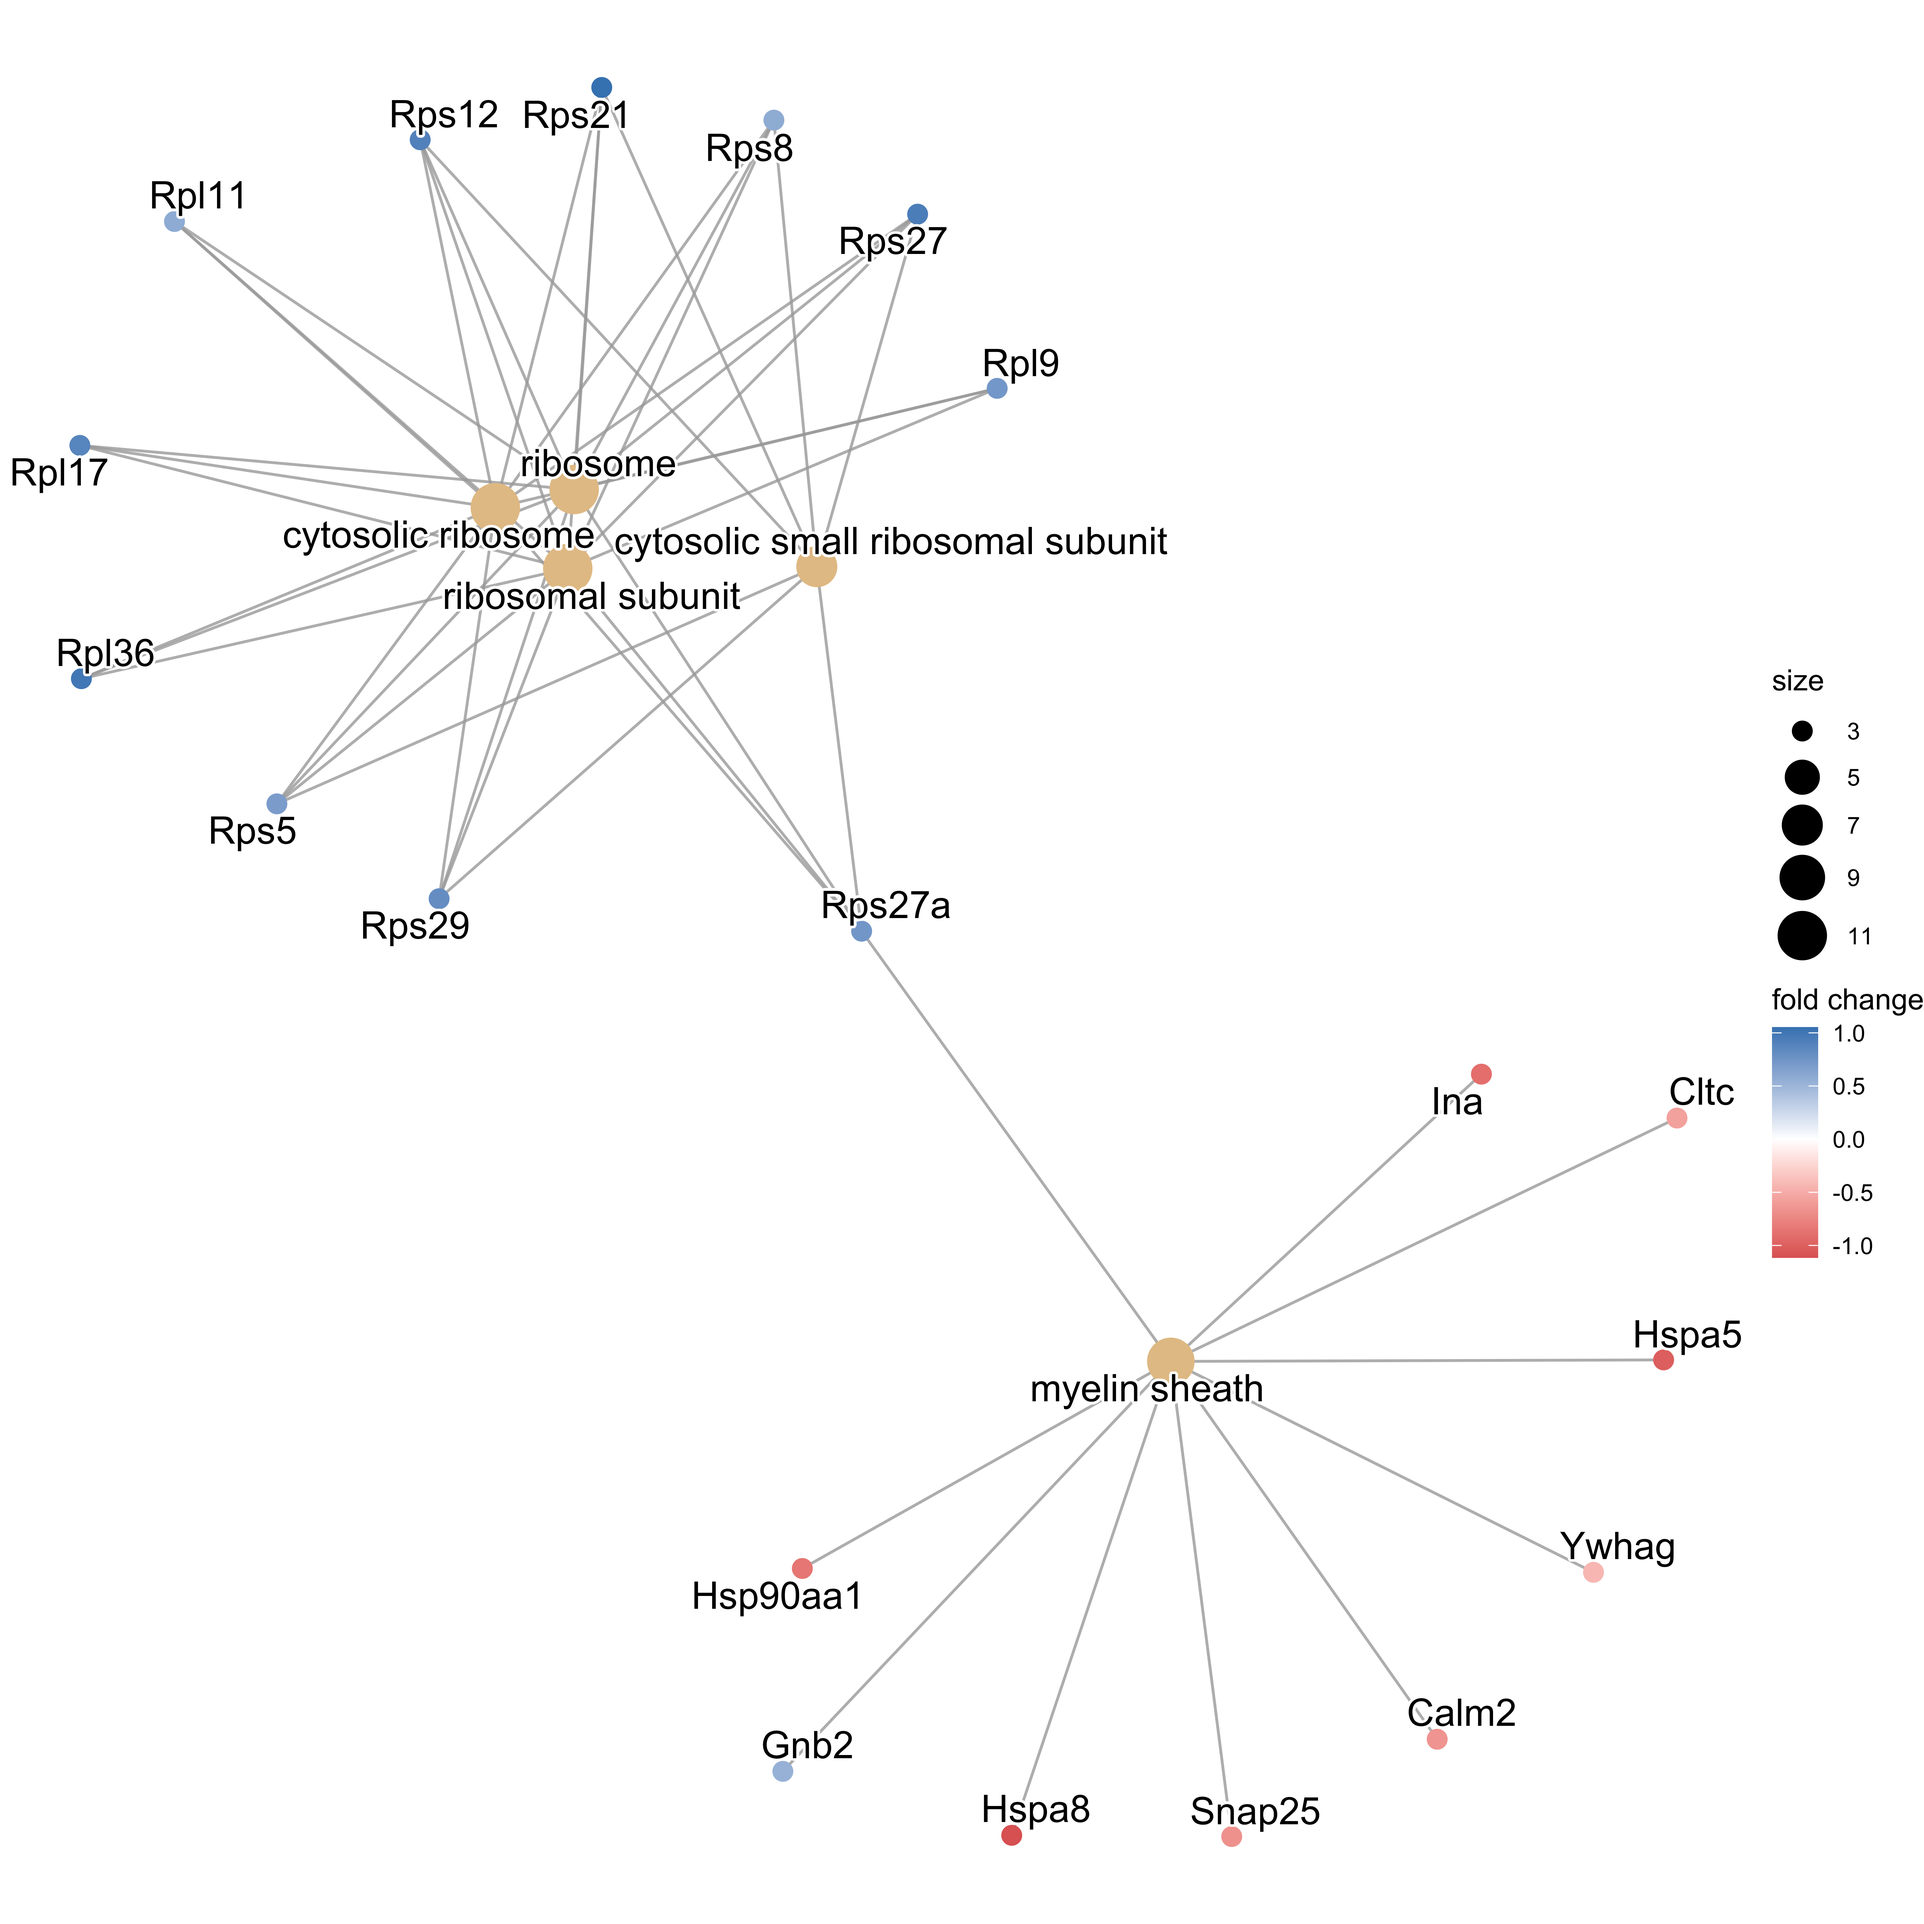
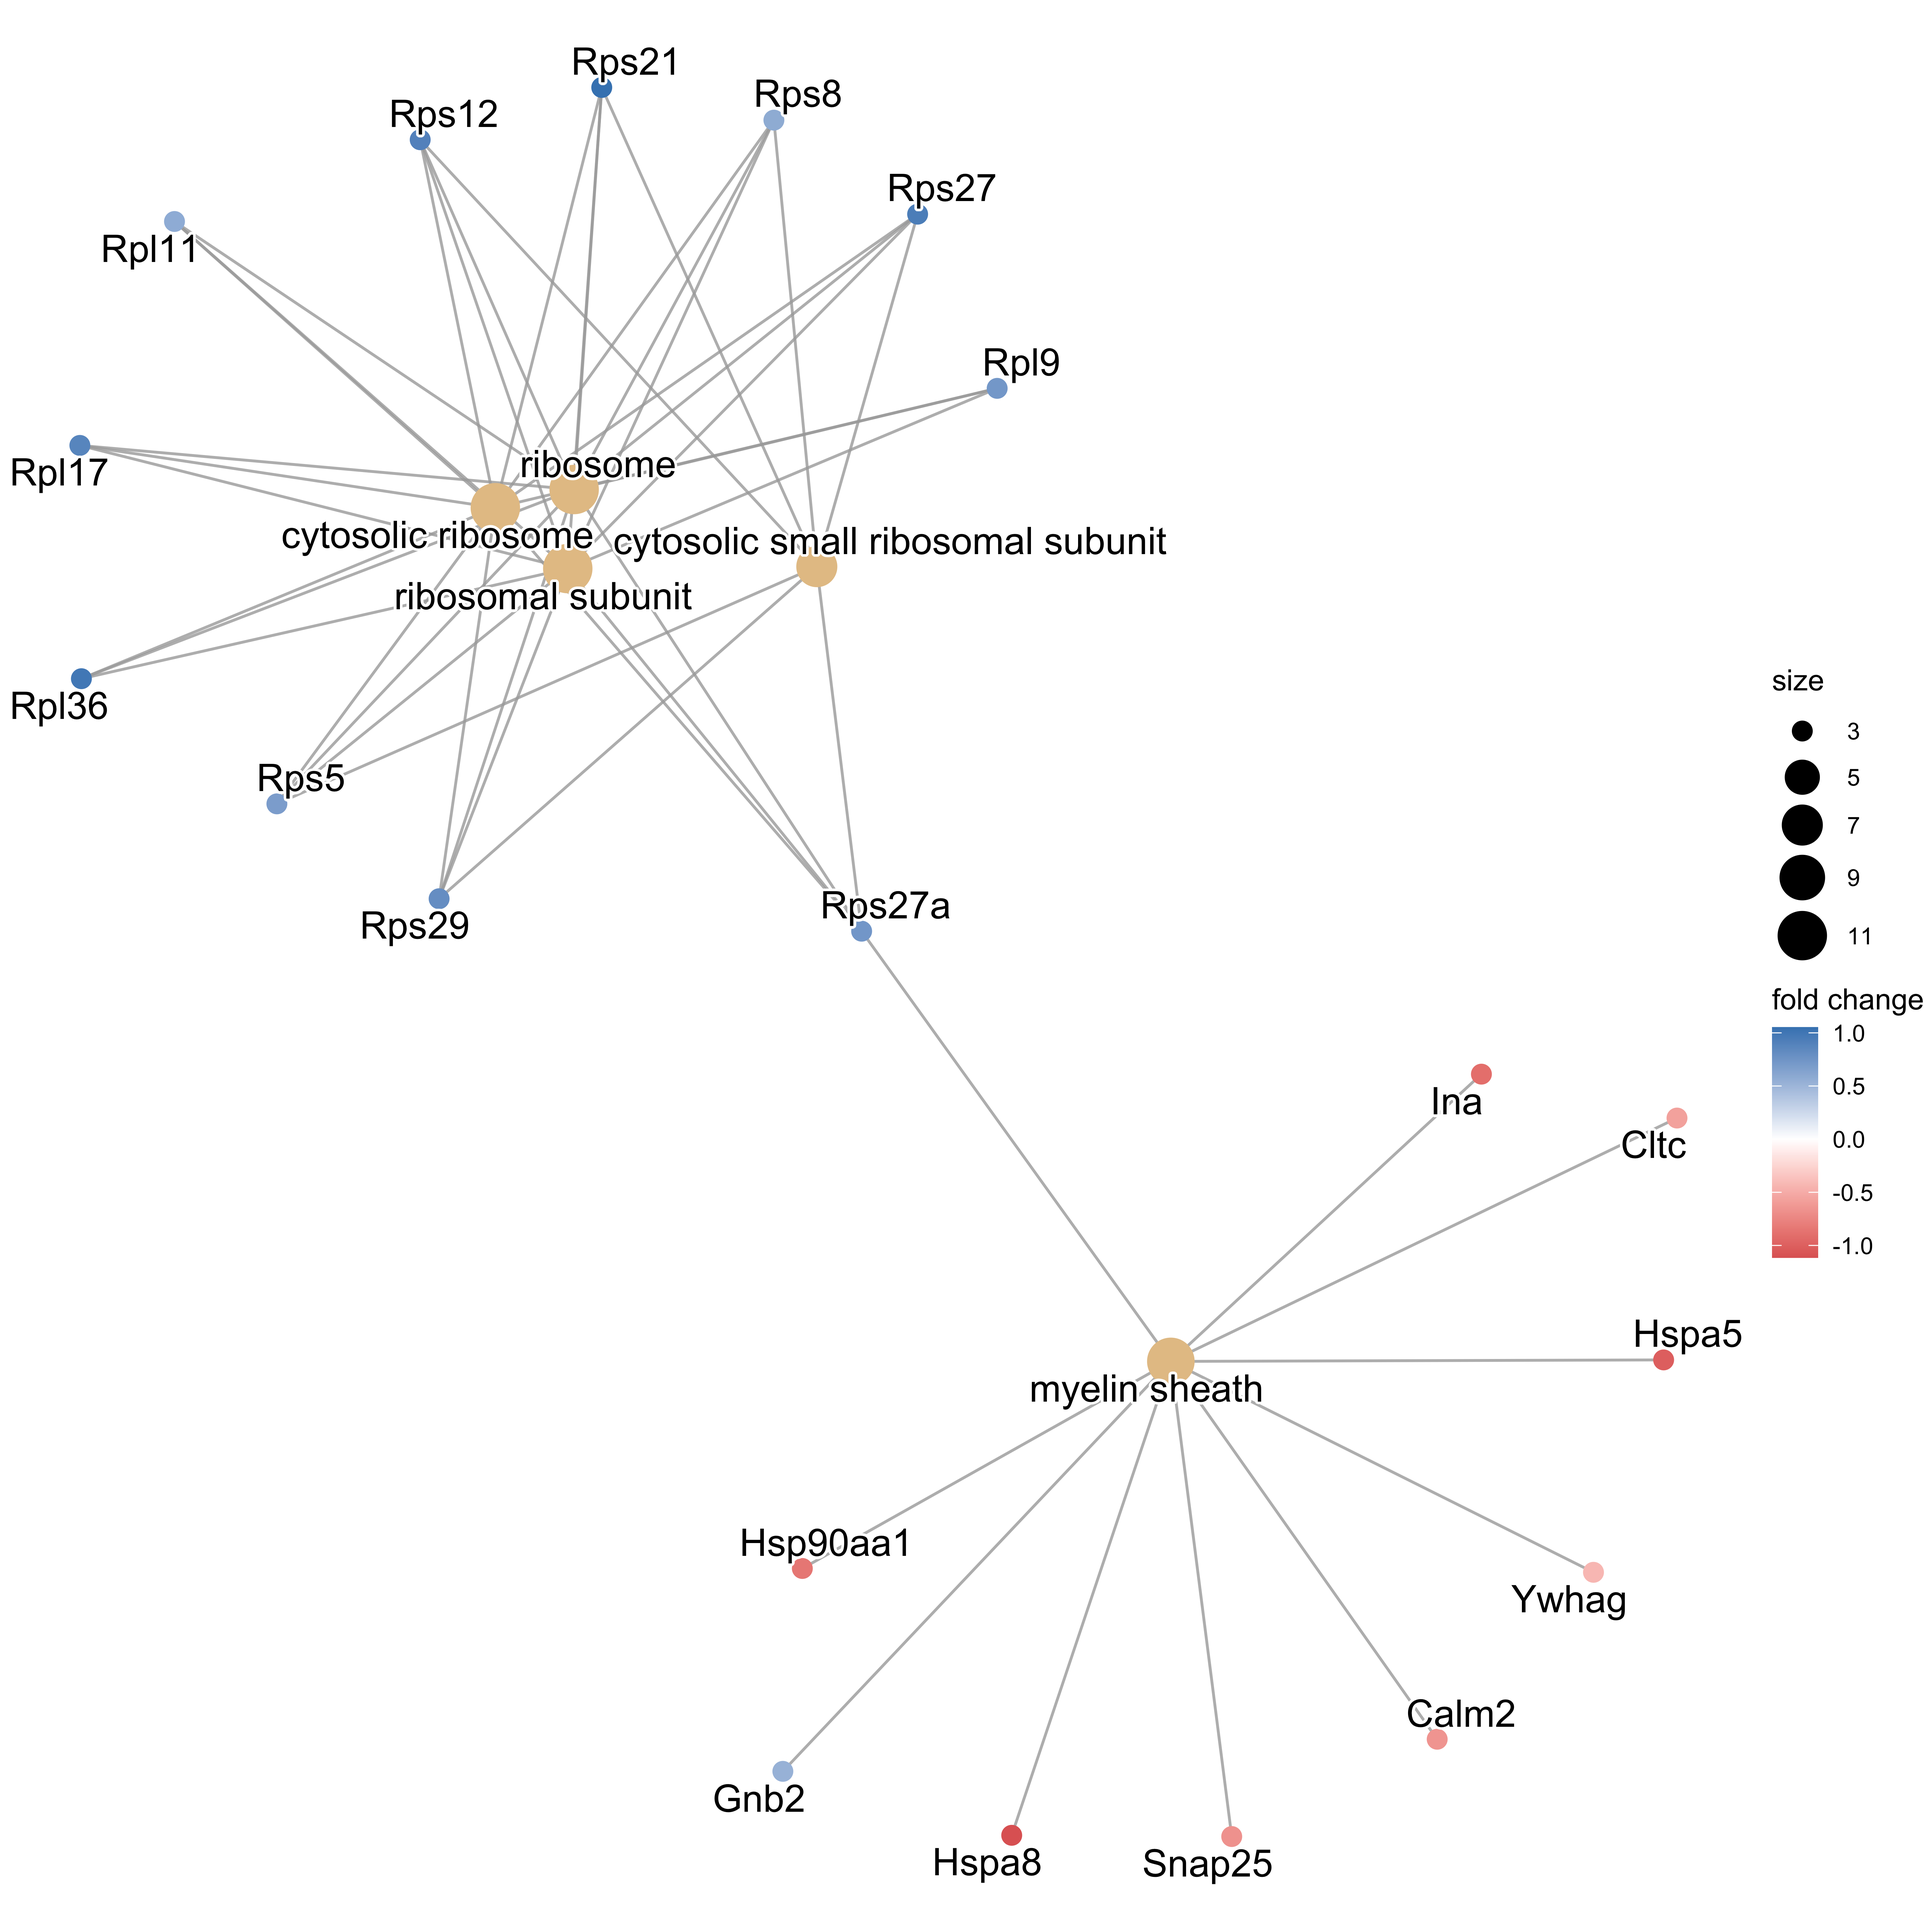
added cnet plot

diff --git a/Bulk RNA-seq/JvRad/readme.md b/Bulk RNA-seq/JvRad/readme.md
@@ -71,6 +71,14 @@ plotDisp
 
 - Displaying the Go cellular component analysis results using the `GO_Cellular_Component` function. 
 
+## cnet_plot
+
+![cnet_plot](cnet_plot.png)
+
+- Displaying the cnet plot results using the `cnet_plot` function. 
+
+
+
 
 
 
